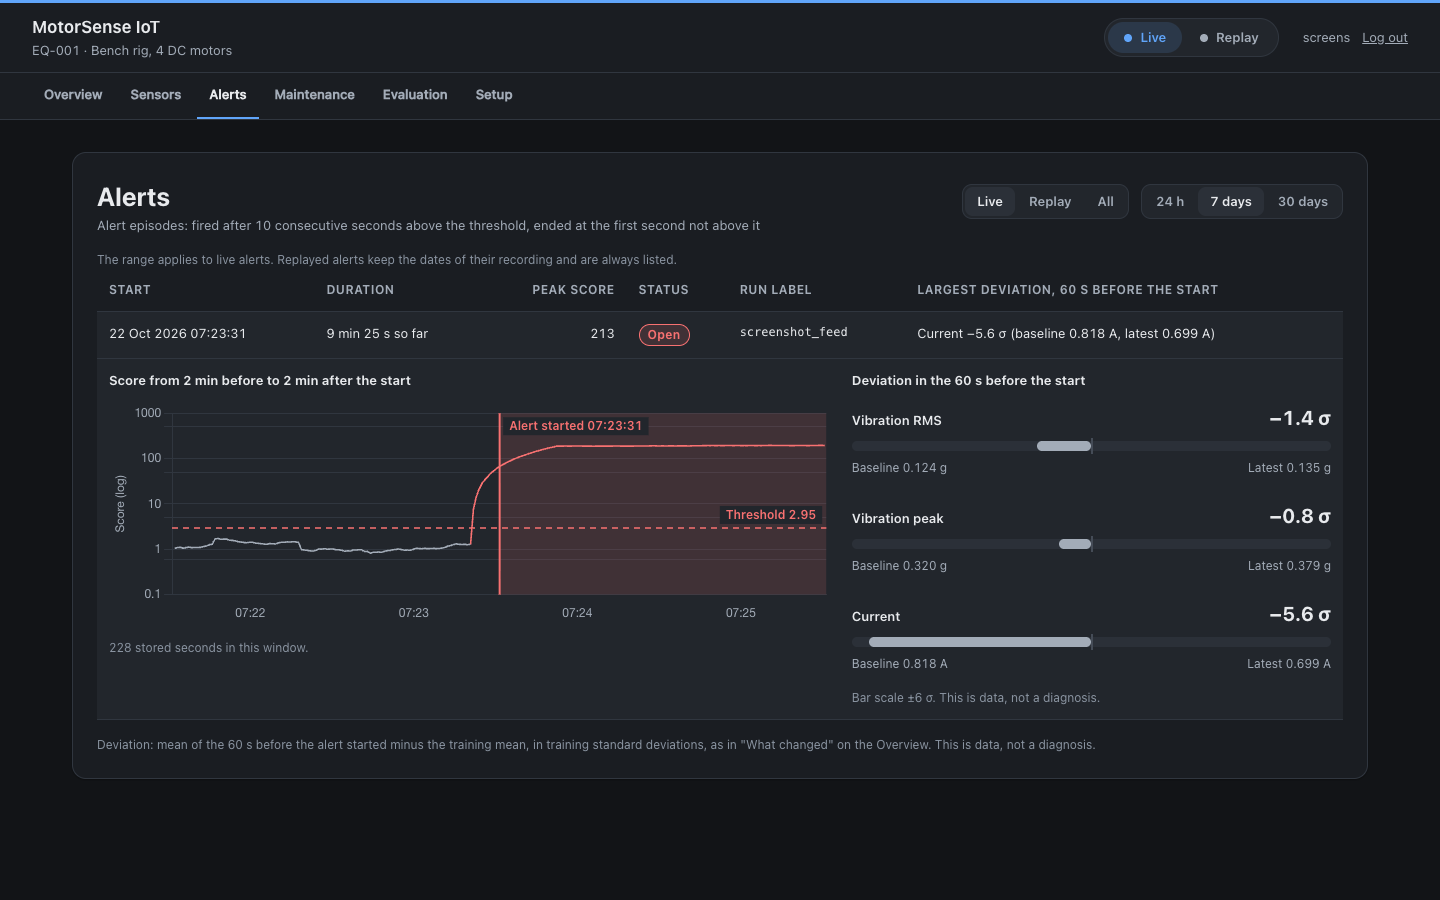
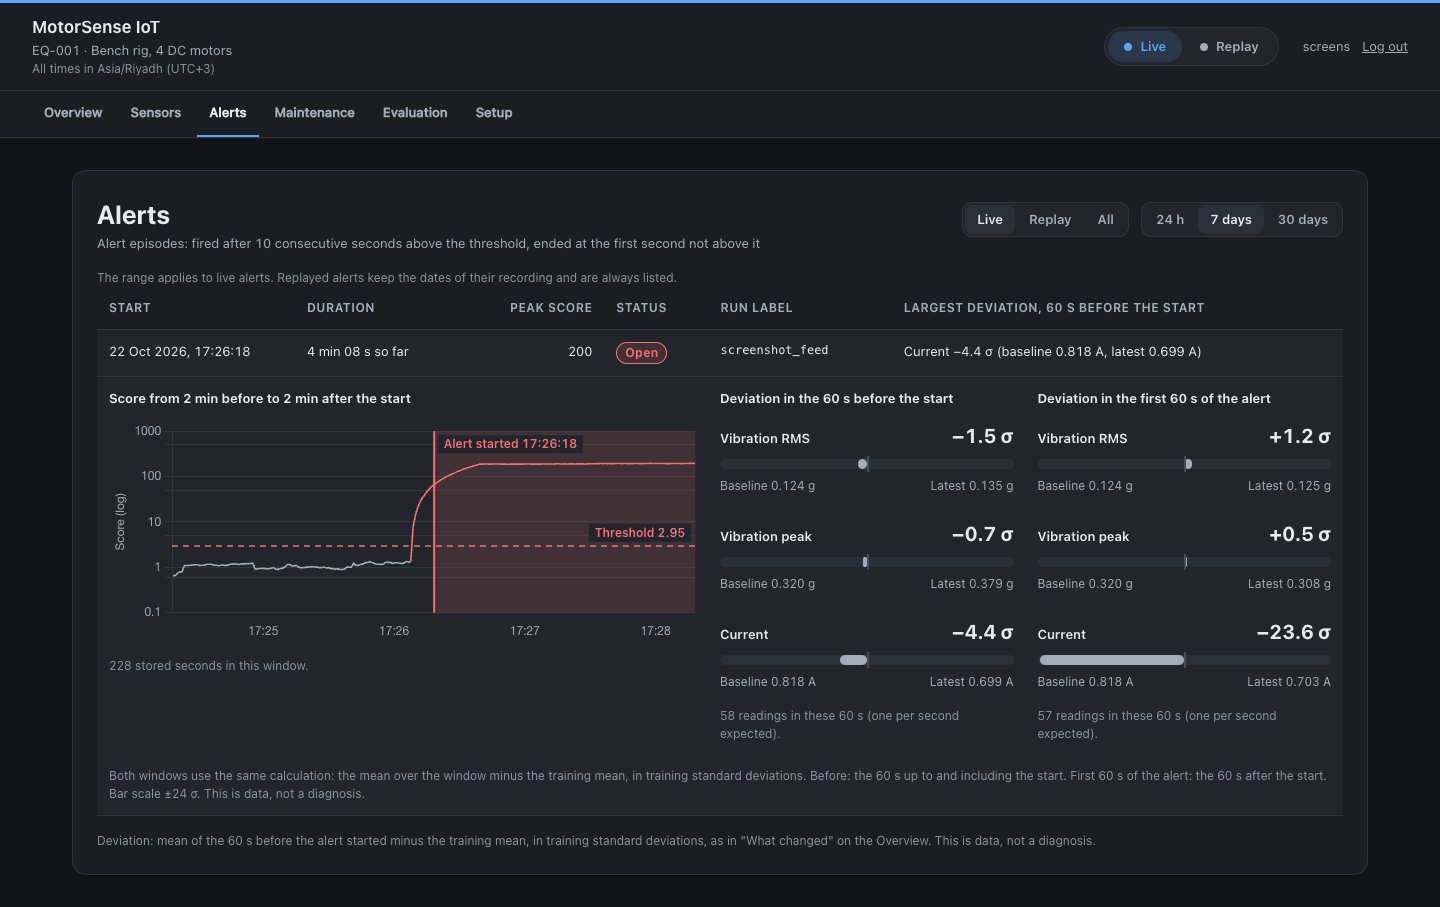
Retake the Evaluation, Maintenance and Alerts screenshots after the polish

diff --git a/docs/screenshots/README.md b/docs/screenshots/README.md
@@ -69,5 +69,35 @@ deleted afterwards.
 | `evaluation_1440.png`, `evaluation_390.png` | Evaluation from `results/metrics.json`, `results/negative_findings.json` and the evaluation's score files: the scope caveat, per-second and per-session tables with the seed spread, the statements derived from them, the five small multiples (each marked "Recorded, not live"), the negative findings with their reference sessions, and the environment. |
 | `setup_1440.png`, `setup_390.png` | Setup: testbed and sensors, the reserved place for the testbed photo (not in the repository), the pipeline diagram (horizontal at 1440 px, vertical at 390 px), model inputs, states, alert rule, data retention and known limitations. |
 
+## Polish after part 2: Evaluation, Maintenance and Alerts retaken
+
+`evaluation_*.png`, `maintenance_*.png` and `alerts_*.png` were retaken on 2026-10-22 at 1440 px
+and 390 px (dark theme, headless Google Chrome 156, cache disabled) after the polish commits
+(code as of `d28bd4e`). They replace the part 2 versions of these six files; the table above
+describes their earlier content, and the changes are:
+
+- **Evaluation:** the "What this shows" block under the caveat (three sentences generated from
+  `results/metrics.json` and `results/negative_findings.json`); "same for all seeds" once per
+  table instead of in each cell; the false-positive sentence with "14 seconds in one session; not a
+  significant difference"; the friction rows reading "n/a, run shorter than the warm-up" for
+  vibration and bands (r4_tune and r4_tune2 are 60 s runs).
+- **Maintenance:** dates as "22 Oct 2026, 17:20:00", the "Performed at" field in the same format (example under the field),
+  and "Select kind" as the empty option. The fixture entry and the 14-day interval were entered
+  through the form in the browser this time; the entry's note says it is a screenshot fixture.
+- **Alerts:** the date format, and in the open detail the deviation in the first 60 s of the alert
+  next to the 60 s before the start.
+
+**The Alerts and Maintenance screenshots show the live code path fed from a recorded session, not a
+live measurement.** The feed for this retake was shorter than the part 2 feed: `r5_normal_05_warmup`
+(180 rows) and the first 150 rows of `r5_normal_05`, then the first 200 rows of `r5_fault_open_01`
+(one motor disconnected, from the raw CSV log), posted once per second to `/api/ingest/` with the run
+label `screenshot_feed` and scored by the real `score_live`. A first attempt at this feed was
+stopped after 63 rows because a server restart left a 6 s gap; those rows were deleted and the
+feed started again. The fed rows and the maintenance fixture were deleted afterwards.
+
+Since the polish, every page's header also says "All times in Asia/Riyadh (UTC+3)". The other
+screenshots in this directory were taken before that line existed and were not retaken; apart
+from that line, their content is unchanged (the capturing browser was already at UTC+3).
+
 Replay mode of Sensors and Alerts is not shown: it needs replays stored in the database, and the
 only stored replays are in `motorsense_db`, which was not used for these screenshots.
